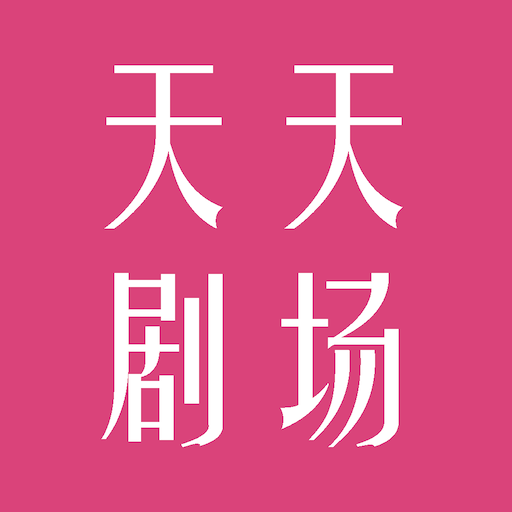
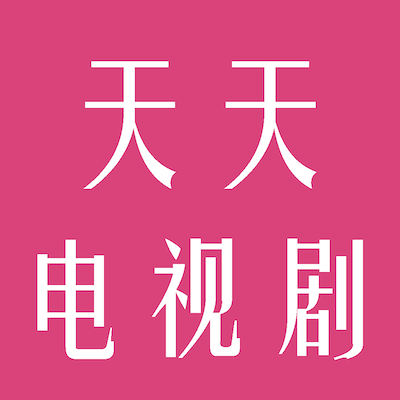
行程修改

Changed region(s): [[0.09, 0.51, 0.93, 0.9], [0.21, 0.12, 0.45, 0.48], [0.54, 0.12, 0.81, 0.48]]

diff --git a/support/index.html b/support/index.html
@@ -21,7 +21,7 @@
     <link rel="stylesheet" type="text/css" href="css/bootstrap.min.css" />
     <link rel="stylesheet" type="text/css" href="css/global.css" />
     <link rel="stylesheet" type="text/css" href="css/base.css" />
-    <title>天天剧场</title>
+    <title>天天电视剧</title>
 </head>
 
 <body>
@@ -38,7 +38,7 @@
             <p style="font-size: 20px;padding-bottom: 10px;">应用介绍</p>
             <div class="dsp margin-bottom60">
                 <section>
-                    “天天剧场”每天更新好看的大陆剧、港台剧、日韩剧、欧美剧、泰剧等各类内容丰富的视频，免费在线观看，追剧大全。
+                    “天天电视剧”每天更新好看的大陆剧、港台剧、日韩剧、欧美剧、泰剧等各类内容丰富的视频，免费在线观看，追剧大全。
                 </section>
             </div>
         </div>

diff --git a/support/privacypolicy.html b/support/privacypolicy.html
@@ -31,7 +31,7 @@
   </style>
   <meta data-vue-meta="true" data-vmid="keywords" name="keywords" content="天天动漫" />
   <meta data-vue-meta="true" data-vmid="description" name="description" content="本软件尊重并保护所有使用服务用户的个人隐私权。为了给您提供更准确、更有个性化的服务，本软件会按照本隐私权政策的规定使用和披露您的个人信息。但本软件将以高度的勤勉、审慎义务对待这些信息。除本隐私权政策另有规定外，在未征得您事先许可的情况下，本软件不会将这些信息对" />
-  <title data-vue-meta="true">天天剧场 隐私政策</title>
+  <title data-vue-meta="true">天天电视剧 隐私政策</title>
 </head>
 
 <body>
